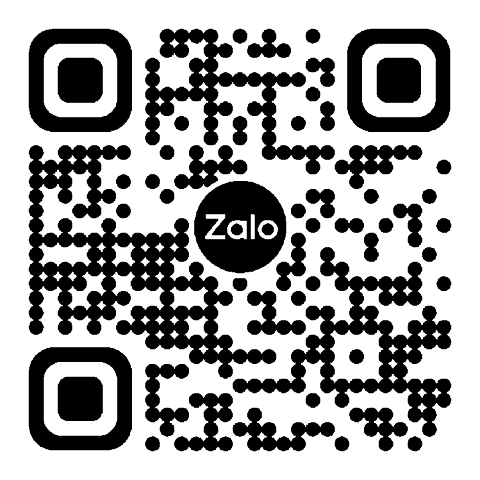
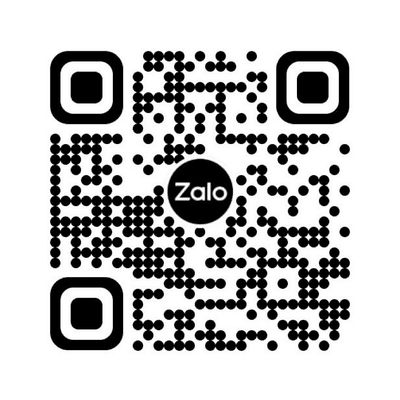
Ảnh lá số: gắn QR Zalo OA ở chân ảnh
Ảnh lá số sẽ được khách chia sẻ tiếp; người nhận quét QR (trong Zalo:
nhấn giữ ảnh → Quét mã QR) là vào thẳng OA Tử Vi Minh Bảo.
public/zalo-oa-qr.png cắt từ mã QR chính thức của OA, giải ra
zalo.me/4164696755090443744. Đo bằng jsQR: quét được từ ảnh lá số ở 1080px,
720px và JPEG q70.

Claude-Session: https://claude.ai/code/session_01Q77YkAZ4hDEGMGu4cnU243

diff --git a/app/api/og/la-so-anh/route.tsx b/app/api/og/la-so-anh/route.tsx
@@ -38,7 +38,8 @@ const W = 1080;
 const H = 1350;
 const PAD = 16;
 const HEAD = 64;
-const FOOT = 38;
+const FOOT = 150;
+const QR = 132;
 const CW = (W - PAD * 2) / 4;
 const CH = (H - HEAD - FOOT - PAD) / 4;
 
@@ -304,6 +305,7 @@ export async function GET(req: NextRequest) {
   );
 
   const ngay = `${birth.day}/${birth.month}/${birth.year} ${birth.isLunar ? 'ÂL' : 'DL'}`;
+  const qrSrc = new URL('/zalo-oa-qr.png', req.nextUrl.origin).toString();
   return new ImageResponse(
     (
       <div style={{ display: 'flex', flexDirection: 'column', width: W, height: H, background: C.bg, fontFamily: 'BeVN' }}>
@@ -324,6 +326,9 @@ export async function GET(req: NextRequest) {
           </div>
           <div style={{ display: 'flex' }}>{[2, 1, 0, 11].map(cell)}</div>
         </div>
+        {/* Chân ảnh: QR Zalo OA (public/zalo-oa-qr.png, cắt từ mã QR chính thức
+            của OA, giải ra zalo.me/<OA_ID>). Ảnh này sẽ được chia sẻ tiếp — người
+            nhận quét/nhấn giữ ảnh trong Zalo là vào thẳng Tử Vi Minh Bảo. */}
         <div
           style={{
             display: 'flex',
@@ -331,12 +336,23 @@ export async function GET(req: NextRequest) {
             alignItems: 'center',
             height: FOOT,
             padding: `0 ${PAD + 6}px`,
-            fontSize: 14,
-            color: C.mute,
           }}
         >
-          <div style={{ display: 'flex' }}>Viền đỏ: cung Mệnh · Nền vàng: đại hạn đang đi · Số góc phải: tuổi vào đại hạn</div>
-          <div style={{ display: 'flex', fontWeight: 700, color: C.gold }}>TỬ VI MINH BẢO · tuviminhbao.com</div>
+          <div style={{ display: 'flex', flexDirection: 'column' }}>
+            <div style={{ display: 'flex', fontSize: 24, fontWeight: 700, color: C.ink }}>
+              Quét mã để xem lá số của bạn trên Zalo
+            </div>
+            <div style={{ display: 'flex', fontSize: 18, color: C.mute, marginTop: 6 }}>
+              Zalo: Tử Vi Minh Bảo · nhấn giữ ảnh → Quét mã QR
+            </div>
+            <div style={{ display: 'flex', fontSize: 14, color: C.mute, marginTop: 10 }}>
+              Viền đỏ: cung Mệnh · Nền vàng: đại hạn đang đi · Số góc phải: tuổi vào đại hạn
+            </div>
+            <div style={{ display: 'flex', fontSize: 15, fontWeight: 700, color: C.gold, marginTop: 4 }}>
+              TỬ VI MINH BẢO · tuviminhbao.com
+            </div>
+          </div>
+          <img src={qrSrc} width={QR} height={QR} style={{ borderRadius: 8 }} />
         </div>
       </div>
     ),

diff --git a/docs/nhat-ky/2026-09.md b/docs/nhat-ky/2026-09.md
@@ -47,6 +47,11 @@ liệt kê 12 cung. Nay lập lá số xong là gửi một tấm ẢNH 1080×13
 - `core.ts`: gửi ảnh hỏng → quay về thẻ chữ như cũ. Telegram (sửa được tin tiến trình): tin chờ thành
   "Lá số của bạn đây:", ảnh, rồi câu trả lời thành tin mới.
 - Đo local: 1,3–1,8s lượt đầu (nạp engine + font), ~0,45s các lượt sau; PNG ~255 KB.
+- **QR Zalo OA ở chân ảnh** (Henry: người nhận ảnh chia sẻ phải vào được app): `public/zalo-oa-qr.png` cắt
+  từ mã QR chính thức của OA (giải ra `zalo.me/4164696755090443744?src=qr` — khớp `ZALO_OA_URL` trong
+  lib/seo/ask-box.ts), thêm viền trắng, 320px/22 KB. Đo bằng jsQR: quét được thẳng từ ảnh lá số ở 1080px,
+  720px và cả JPEG q70 (Zalo nén ảnh khi chia sẻ). Ảnh trong app chat không gắn link bấm được — trong Zalo
+  người nhận nhấn giữ ảnh → "Quét mã QR" là vào OA. Có Zalo Mini App thì thay file QR này là xong.
 
 ## 📎 Kênh chat: tải ảnh hỏng thì báo khách, không luận bịa · bỏ sticker Messenger (2026-09-28)
 
